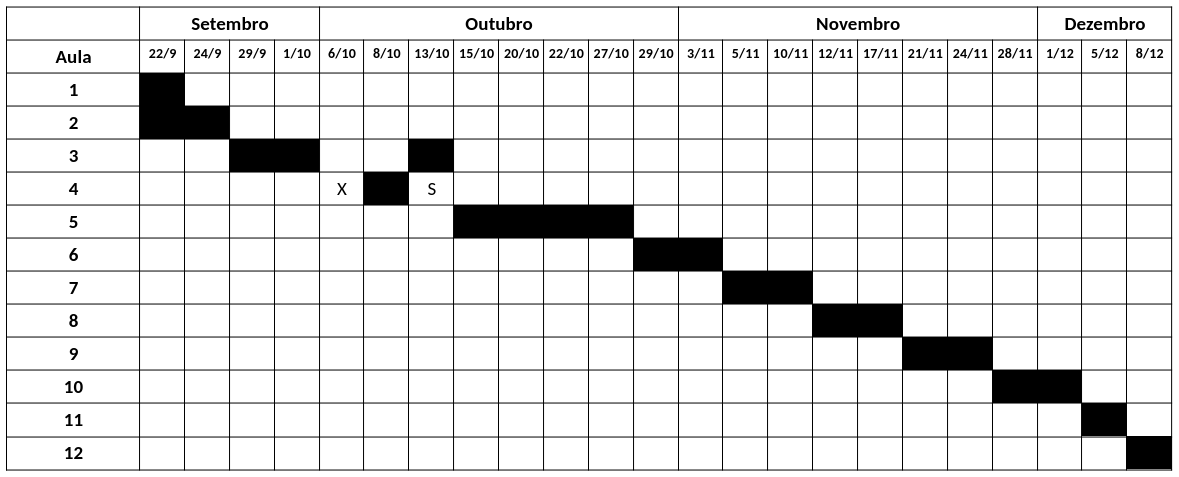
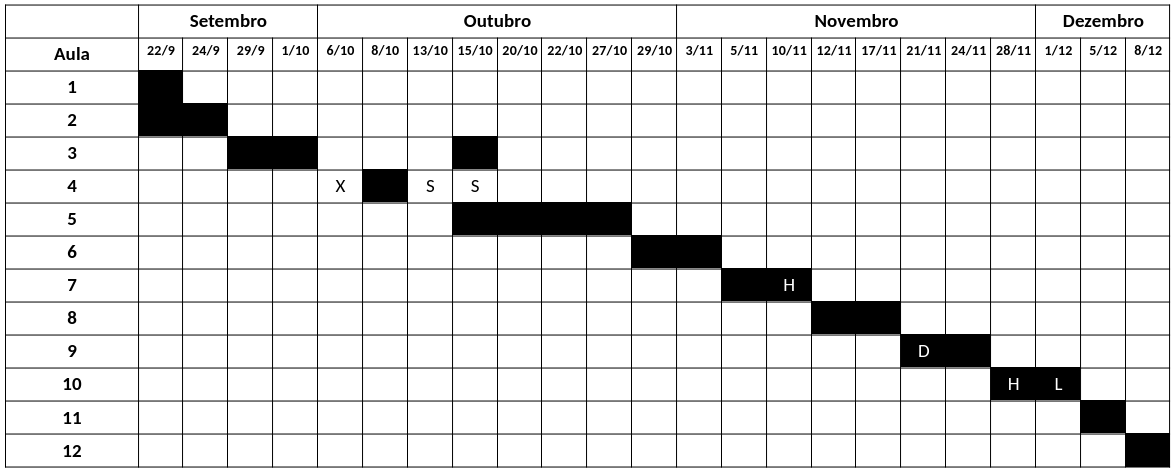
Atualizando página met563-3.md

diff --git a/docs/met563-3.md b/docs/met563-3.md
@@ -1,4 +1,4 @@
-# MET 563-3 (2025)
+# MET 563-3
 
 Site do curso "Introdução à Assimilação de Dados (MET 563-3)" do Programa de Pós-Graduação em Meteorologia (PGMET) do INPE.
 
@@ -40,6 +40,7 @@ Site do curso "Introdução à Assimilação de Dados (MET 563-3)" do Programa d
 * Artigo - Panofsky, 1949: [Objective Weather Map Analysis](https://x.gd/sBmUk)
 * Artigo - Bergthórsson e Döös, 1955: [Numerical Weather Map Analysis](https://x.gd/qmxVS)
 * Artigo - Cressman, 1959: [An Operational Objective Analysis System](https://x.gd/DkMuD)
+* Livro - Gandin, 1963: [Objective Analysis of Meteorological Fields](https://x.gd/68xV7)
 * Review - Gandin, 1963: [Objective Analysis of Meteorological Fields](https://x.gd/TKtbo)
 * Post - Lynch, 2015: [Richardson’s Fantastic Forecast Factory](https://x.gd/TWX3t)
 * Webpage - [NOAA Teletypes](https://www.circuitousroot.com/artifice/telegraphy/tty/gallery/noaa/index.html)
@@ -58,6 +59,14 @@ Site do curso "Introdução à Assimilação de Dados (MET 563-3)" do Programa d
 * Os diferentes tipos de observações (_in situ_, por sensoriamento remoto e plataformas oceânicas) 
 * O fluxo de dados operacional no CPTEC para a Assimilação de Dados
 * Controle de Qualidade das Observações
+
+  * &#128073; Aula 5 - [PDF]()
+
+#### Leitura Complementar
+
+* WMO - [Global Observing System (GOS)](https://x.gd/cAeQP)
+* Newsletter ECMWF - [How to evolve global observing systems](https://x.gd/tat27)
+* Wikipedia - [Global Climate Observing System](https://x.gd/hDtcP)
 
 ### 5. Método Variacional
 
@@ -128,3 +137,6 @@ Site do curso "Introdução à Assimilação de Dados (MET 563-3)" do Programa d
 
 * X: não houve aula
 * S: Seminários dos alunos
+* D: Aula Dirceu
+* H: Aula Helena
+* L: Aula Liviany
